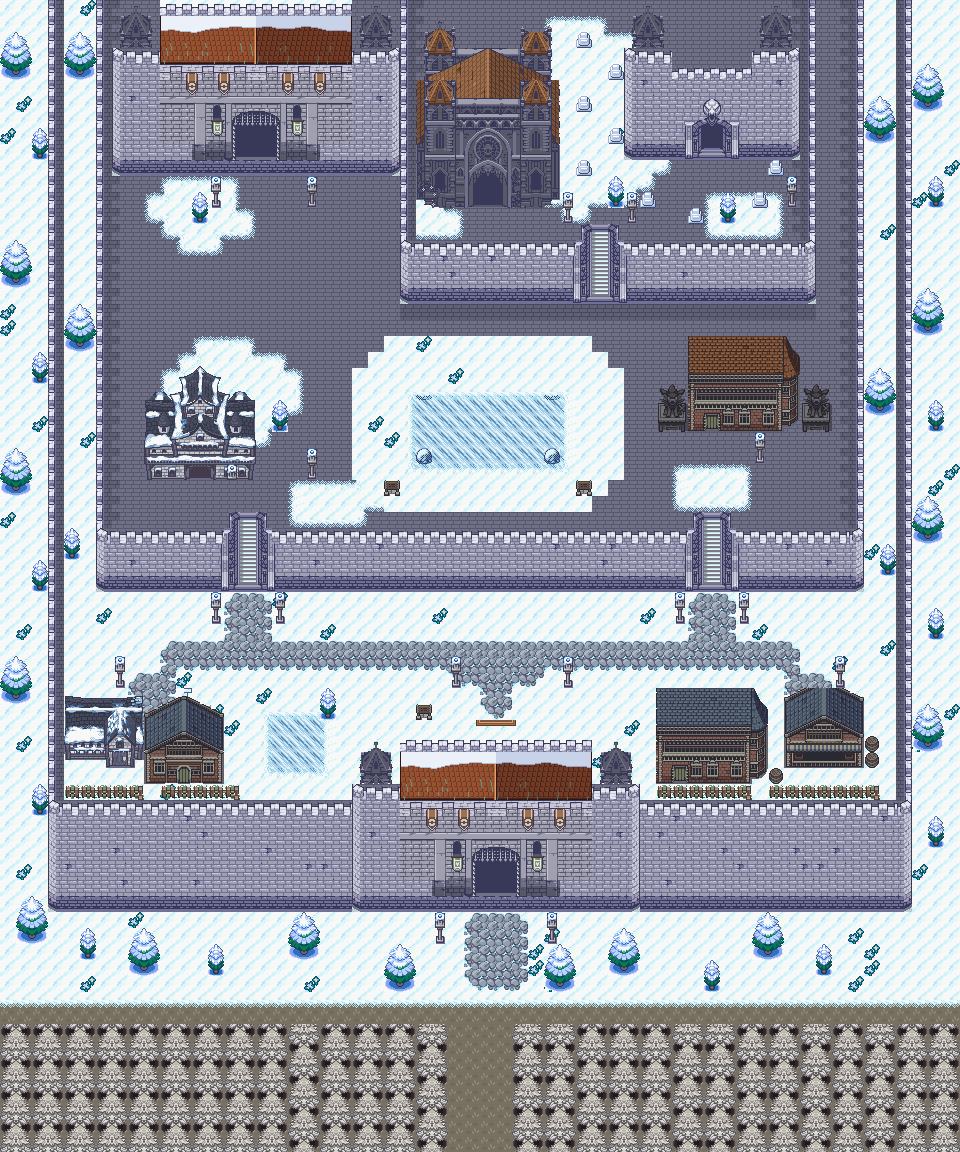
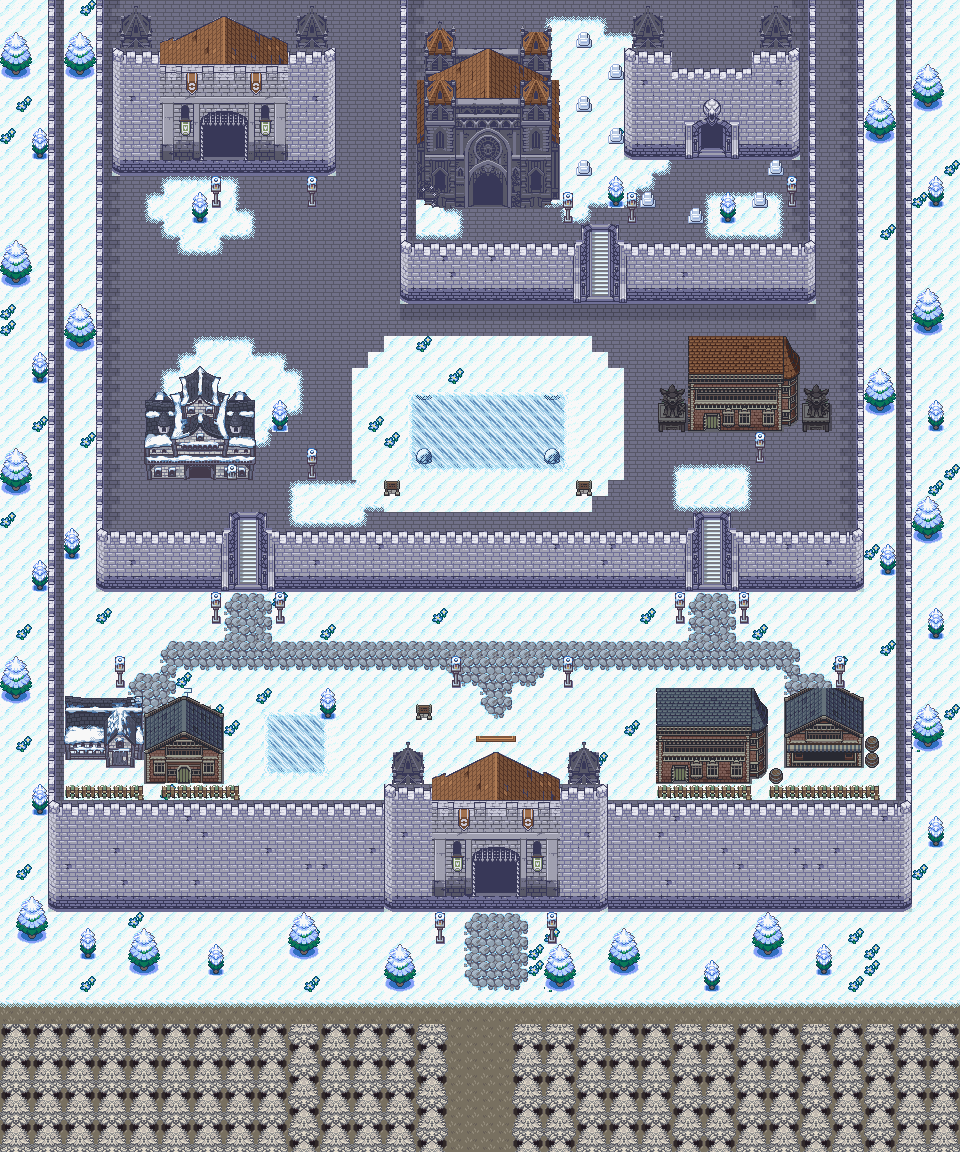
Mirroh gatehouses: Crown's cathedral roof between the towers, in copper
The drawn copper roof did not look like part of the gate (user). Now the real roof of Crown's cathedral (as it runs back between its spired towers) cut out, widened at mid-slope, in copper, over Crown's gate core; 14 wide. No half banners at the core's ends.

Claude-Session: https://claude.ai/code/session_01FHXnfqnedTHLf5QFbB3MCU

Changed region(s): [[0.3438, 0.625, 0.6875, 0.7812], [0.1562, 0.0, 0.4375, 0.1562]]

diff --git a/tools/art/mirroh/mirroh_v3.py b/tools/art/mirroh/mirroh_v3.py
@@ -61,6 +61,27 @@ def to_mirroh(img):
     out[purple] = copper_tone(img)[purple]
     return out
 
+def cathedral_roof(w, h):
+    """The roof of Crown's cathedral as it runs back between its towers (real Crown art: its metal sheets, its
+    ridge, the stone band at its back end), cut out between the towers and widened to w pixels at mid-slope, in
+    copper. h pixels from its back end down."""
+    a = ATL['c32']; cc = a['cells']
+    src = np.vstack([np.hstack([a['full'][int(cc[y, x])] for x in range(26, 35)]) for y in range(3, 9)])
+    reg = src[:h, 9:135]                              # between the towers; its ridge at x 63
+    L, R = reg[:, :63], reg[:, 63:]
+    need = w // 2
+    while L.shape[1] < need: L = np.concatenate([L[:, :20], L[:, 12:20], L[:, 20:]], axis=1)   # one 8 px strip
+    while R.shape[1] < w - need: R = np.concatenate([R[:, :40], R[:, 40:48], R[:, 40:]], axis=1)
+    img = np.concatenate([L[:, -need:], R[:, :w - need]], axis=1)
+    # only the roof itself (its sheets and their dark outline): not the back towers' feet beside its top
+    from scipy.ndimage import binary_dilation
+    f = img.astype(int); green = (f[..., 1] > f[..., 0] + 28) & (f[..., 1] > f[..., 2] + 12)
+    from scipy.ndimage import label
+    lab, n = label(green)                             # (the roof is one sheet: no stray bits of the towers' roofs)
+    if n > 1: green = lab == (np.argmax(np.bincount(lab.ravel())[1:]) + 1)
+    alpha = binary_dilation(green, np.ones((3, 3), bool))
+    return copper_roofs(img), alpha
+
 def copper_roof(w, h, seed='roof'):
     """A pitched copper roof seen from above, its ridge running back from the middle (the way the roof of Crown's
     cathedral runs back between its towers): standing seams leaning down each slope, staggered joints, the lit west
@@ -200,7 +221,7 @@ def mat(M, x, y, n, tone):
     ne = np.load('/home/claude/scratch/mirroh/ref/mm_ne_gate.npz')['full']
     ids = [0x1cb] + [0x1cc] * (n - 2) + [0x1cd]
     for k, m in enumerate(ids):
-        t = ne[m]; under = M.g[y][x + k].copy()
+        t = ne[m]; under = ef(0xed) if M.gtag[y, x + k] == 'snow' else M.g[y][x + k].copy()
         f = t.astype(int); a = f.sum(-1) > 0
         img = tone(t); under[a] = img[a]
         M.ground(x + k, y, under, 'gate-in')
@@ -210,12 +231,13 @@ def gatehouse(M, x0, ycren, style='roof', far_mat=False, tone=None):
     restoned in Elderflower's stone, with Elderflower's foot. Its door is the portcullis.
     style 'roof' (14 wide): round towers either side, a hip roof behind the crenels (Crown's townhouse's) in
       slate, restoned to the stone's own darks, no timber; the portcullis at columns x0+5..x0+8.
+    style 'cathedral' (14 wide, the chosen one, user 2026-11-21): see below.
     style 'towers' (18 wide): no roof; three-wide towers a row taller than the crenellated walk, capped with the
       Necropolis gate's spires (the same family); the portcullis at columns x0+7..x0+10.
     far_mat: the hallway's far door on the city side, a mat on the ground behind it (Ghost Grey's Saffron gates)."""
     c = ATL['c33']['cells']
     tw = 1 if style == 'roof' else 3
-    for dy in range(7):
+    for dy in range(7 if style != 'cathedral' else 0):
         for dx in range(12):
             m = int(c[36 + dy, 20 + dx])
             t = ef(0x21e) if dy == 6 else ef(0x20e) if m == 0x66 else to_mirroh(cr(m))   # (its moat-dark course: wall)
@@ -235,7 +257,7 @@ def gatehouse(M, x0, ycren, style='roof', far_mat=False, tone=None):
                 img = under.copy(); img[a] = to_ef_all(slate_roof(t))[a]
                 M.ground(x0 + 1 + dx, ycren - 3 + dy, img, 'gate')
         mx, my = x0 + 5, ycren - 4
-    else:
+    elif style == 'towers':
         body = [[0x2a3, 0x272, 0x272]] + [[0x222, 0x20e, 0x20e]] * 2 + [[0x222, 0x22b, 0x20e]] + \
                [[0x222, 0x20e, 0x20e]] * 2 + [[0x22a, 0x20e, 0x20e], [0x307, 0x21e, 0x21e]]
         for side, xs in ((0, x0), (1, xr)):
@@ -244,15 +266,33 @@ def gatehouse(M, x0, ycren, style='roof', far_mat=False, tone=None):
                     if side: M.ground(xs + 2 - dx, ycren - 1 + dy, fx(ef(m)), 'gate')
                     else: M.ground(xs + dx, ycren - 1 + dy, ef(m), 'gate')
             _spires(M, xs, ycren - 4, side)
-        # between the towers: the back wall's crenels (snow on them), then a copper roof running down to the front
-        # walk (Crown's cathedral: a pitched roof between its spired towers)
-        for dx in range(12):
-            M.ground(x0 + 3 + dx, ycren - 4, ef(0x206), 'gate')
-        roof = copper_roof(12 * 16, 3 * 16)
-        for dy in range(3):
-            for dx in range(12):
-                M.ground(x0 + 3 + dx, ycren - 3 + dy, roof[dy * 16:dy * 16 + 16, dx * 16:dx * 16 + 16], 'gate')
         mx, my = x0 + 7, ycren - 5
+    else:   # 'cathedral'
+        # 14 wide: Crown's gate core (its columns 22-29: pillar, lantern, the portcullis, lantern, pillar; its banners
+        # over the lanterns) between three-wide spired towers, and over the core, running back between the towers,
+        # the real roof of Crown's cathedral (its roof between its towers, cut at its ridge's back end), in copper.
+        for dy in range(7):
+            for dx in range(8):
+                m = int(c[36 + dy, 22 + dx])
+                if dx in (0, 7) and dy in (0, 1): m = (0x39, 0x45)[dy]       # (no half banners at its ends)
+                t = ef(0x21e) if dy == 6 else ef(0x20e) if m == 0x66 else to_mirroh(cr(m))
+                M.ground(x0 + 3 + dx, ycren + dy, t, 'gate')
+        xr = x0 + 11
+        body = [[0x2a3, 0x272, 0x272]] + [[0x222, 0x20e, 0x20e]] * 2 + [[0x222, 0x22b, 0x20e]] + \
+               [[0x222, 0x20e, 0x20e]] * 2 + [[0x22a, 0x20e, 0x20e], [0x307, 0x21e, 0x21e]]
+        roof, ra = cathedral_roof(8 * 16, 3 * 16)
+        for dy in range(3):
+            for dx in range(8):
+                sl = (slice(dy * 16, dy * 16 + 16), slice(dx * 16, dx * 16 + 16))
+                t = M.g[ycren - 3 + dy][x0 + 3 + dx].copy(); t[ra[sl]] = roof[sl][ra[sl]]
+                M.ground(x0 + 3 + dx, ycren - 3 + dy, t, 'gate')
+        for side, xs in ((0, x0), (1, xr)):
+            for dy, r in enumerate(body):
+                for dx, m in enumerate(r):
+                    if side: M.ground(xs + 2 - dx, ycren - 1 + dy, fx(ef(m)), 'gate')
+                    else: M.ground(xs + dx, ycren - 1 + dy, ef(m), 'gate')
+            _spires(M, xs, ycren - 4, side)
+        mx, my = x0 + 5, ycren - 4
     if far_mat:
         mat(M, mx, my, 4, tone or crimson_tone)
 
@@ -392,8 +432,8 @@ def compose():
     walls(M)
     stair(M, 15, 33); stair(M, 44, 33)                               # lower town -> square
     stair(M, 37, 15)                                                 # square -> sacred terrace
-    gatehouse(M, 22, 50, style='towers', far_mat=True, tone=lambda i: copper_tone(i))   # south, from Hollow Hill
-    gatehouse(M, 7, 4, style='towers')                               # north-west, to the mountain
+    gatehouse(M, 24, 50, style='cathedral', far_mat=True, tone=lambda i: copper_tone(i))   # south, from Hollow Hill
+    gatehouse(M, 7, 4, style='cathedral')                            # north-west, to the mountain
     necro_gate(M, 39, 0)                                             # north-east, to the Necropolis
 
     # --- L3: the chapel, its graveyard loose among small pines on the snow, the way to the Necropolis gate

diff --git a/bible/20_chapter1_build.md b/bible/20_chapter1_build.md
@@ -181,7 +181,7 @@ Chapter 1 is the template: once its foundations (mechanics, maps, buildings, NPC
 - **The ice path and the church after the blast (user design 2026-11-19), built (stage 1 + the stage-3 puzzle, user: the two combined for this piece).** **The church after Eden's blast** is a second layout of the same hall map (`LAYOUT_PELLUCA_TEMPLAR_HALL_RUINED`), swapped in by the hall's on-transition script once **`FLAG_DR_CHURCH_BLASTED`** is set (the blast scene, stage 4): the split through the gold medallion with frost round it, the old fault's cracks in wall and carpet, the cracked stained glass (three in the great window, one across the girl's face; two in each lancet) and the cell doorway caved in under MonoMyth's Mt. Thunder rubble (`blast_mock.py`, approved); no long crack from the rubble to the split (tried, dropped, user: unnatural and not needed). Everything else plays as the intact hall: its collision, its exit, and its side tables' tops over the player, read from the intact layout. The four split cells drop the player (Mt. Pyre's fall-through-the-hole) onto the ice path's landing; the cell door is dead and the fallen stone in front of it solid. **The ice path** (`PellucaIcePath`, 16x24, `icepath_mock.py`, approved): the landing, the 12x9 thin-ice field (86 ice cells, 22 ice boulders, a unique route from the landing to the gate), the ice wall and its gate, and the shrine: the half-thawed Arceus statue between the fossilised log benches, fire rings and blue flowers, and the three stone tusk arches like a ribcage before it. **The puzzle** runs on vanilla's Sootopolis-gym step callback (`STEP_CB_SOOTOPOLIS_ICE`, `VAR_ICE_STEP_COUNT`), which `src/field_tasks.c` now points at this map's own cracked/broken metatiles on this layout (`METATILE_PellucaIcePath_*`, written by the build into `metatile_labels.h`; the Sootopolis row-var bookkeeping kept to the gym). All 86 cracked (count 87): the gate's ice gives way (`SE_ICE_STAIRS`), the field refreezes solid (special `DrIcePathFreeze`: safe ice, no behaviour) and **`FLAG_DR_ICE_PATH_SOLVED`** is set; a second step on a cracked cell: the ice breaks, the player drops through, black screen, back on the landing with a fresh field. Every full load of the map rebuilds a fresh field and count when unsolved (special `DrIcePathReset`; a continued save would otherwise restore cracked cells in view), and the solved state (gate open, refrozen field) when solved. **Ways out:** the ladder in the shrine's corner, and (added in the build, so the player is never stuck before solving) **the Templars' rope** hanging beside the landing; both bring the player up just south of the split (hall warp 2). The ribs stand free: only each leg's foot is solid, the rest of each rib is drawn over the player, so he walks under and between them. Map type underground. Flags: `FLAG_DR_CHURCH_BLASTED` = 0x901, `FLAG_DR_ICE_PATH_SOLVED` = 0x902. Built by `tools/art/icepath/build_icepath.py` and `tools/art/templar/build_ruined.py` (with `imgtiles.py`; `tools/art/academy/tilefit.py` merges the statue's rarest near-shades so each 8x8 tile fits one palette, no visible change); `CHURCH_TEST_BLASTED=1` builds a test ROM that sets the flag on entering the hall. **Verified in the emulator** (test build): city -> ruined hall -> the cell door blocked -> into the split -> the landing; a second step on a cracked cell -> reset to the landing; the rope up and back down; the solution walked -> gate open, field refrozen -> the shrine -> the ladder up -> back down the split: still solved, the field crossed back and forth without falling. Normal build: the intact hall unchanged (city -> hall -> cell -> hall -> city; the split cells inert). *Stage 3-4, still to do:* the blast scene that sets the flag, the Templar's remark on the cold, the Sparkling Opal and the discovery, the Archbishop's scene, the leave-the-Valley block, dialogue for the fall (the field's black-out is silent for now).
 - **The shrine's awakening and the Sparkling Opal (user design 2026-11-20), built.** With the field solved, **pressing A on the Arceus statue** awakens the holy power of the site: dramatic music starts at the touch (**Rayquaza Appears**, `MUS_RAYQUAZA_APPEARS`; user: something awe-inspiring), a rumble, **the ice melts off the statue** (five frames, a little meltwater left at its foot), **the seal breaks in a holy flash** (fade to white and back) with **Arceus's cry echoing** (the cry's chorus mode under a heavy mixer reverb: specials `DrPlayEchoCry` / `DrEndEchoCry`), **the two fire rings beside the logs light** one after the other in **holy sapphire-and-white flame** (user's pick over warm firelight; animated, four frames on dedicated tiles: `InitTilesetAnim_PellucaIcePath`), and the music ends. Then Osrid (portrait, his private nameplate): "Something fell down out of the ice... Could this be...!!", and **"Osrid found the Sparkling Opal!"** with the key-item fanfare and its description popup. The statue stays thawed and the fires lit (`FLAG_DR_STATUE_AWAKENED` = 0x909, restored on every load). **Sparkling Opal** (`ITEM_SPARKLING_OPAL`, key item): its bag icon drawn in `awaken_mock.py` (a milky opal with a rainbow patchwork of play of colour, user); bag text (three lines fit): "Fell from the ice of / an Arceus statue. It / shimmers as if alive." (the user's description, "A gleaming opal that fell from the ice around an ancient Arceus statue. Its colours shift as if alive.", is too long for the bag window; it can be the text when the item is first shown or examined). **What happens to it (user 2026-11-20, canon):** when the player goes back up and shows it to **Archbishop Ambrose**, he gives them the **Warding Ring** with massive enthusiasm (a key item that, worn, keeps wild Pokémon away: a Repel switched on and off at will): Sparkling Opals appear only where Arceus has set foot in the material realm, the Templars have sought one for centuries, and this is the first physical proof of Arceus found in centuries as far as he knows. The player also gets the bravery reward (Never-Melt Ice / Metal Coat / Soft Sand). Stage 4: the scene; the Ring's mechanic to be built with it. **Ice path music (user):** the cave plays **MonoMyth's Old Headquarters theme** (Old Town's Old HQ, where the gang leader with the Bug Pokémon is fought): MonoMyth song 677 ported note for note by `tools/monomyth/port_song.py` (tracks, the voices it uses, its two samples; credit MonoMyth) as `MUS_DR_OLD_HQ` (song 631). **Church crack** (user): the long fresh crack from the cell rubble to the split is gone. Built by `build_icepath.py` with `awaken_mock.py` (melt frames, flames, icon); the statue's cells across all the melt frames share 26 colours (`tilefit.reduce_joint`) so the room still fits 13 palettes. **Verified in the emulator** (test build): the cave plays the Old HQ theme; A on the statue plays the whole sequence (music switches to Rayquaza Appears and back, the melt, the flash, both fires, the line, the item into Key Items); leaving and coming back: statue thawed, fires lit and flickering (four distinct frames).
 - **Route 11 and Hollow Hill: layouts approved (user 2026-11-20).** **Route 11** (45x30, west from Pelluca's west road): Pelluca's pines and cobble road carry on at the east end (the seam to Pelluca uses Pelluca's own Cormoria tiles), farmland in the middle (a thatched farmhouse with a fenced yard, cabbage rows, a sown field, hay; fenced flower rows and tall grass south of the road), tan cliffs stepping down along the north, a cliff-flanked little cove on the south coast, and at the west end the road becomes a dirt track into cooler dark woods running on into Hollow Hill (the Eiscue scene on that track). Art: Crown's seaside farm village (3.1) and dark woods (3.25), Odyssey's farm (0.232); Pisces' Brumist Cliffs / Zotpyre Village (snowy in the ROM) and Odyssey's terraced hill as layout ideas. **Hollow Hill** (about 50x50; **its theme (approved by the user 2026-11-20, "perfect"):** Ghost Grey's Route 1 theme re-arranged as `MUS_DR_HOLLOW_HILL` by `tools/music/arrange_hollow_hill.py`: slowed from 124 to 64 bpm, on the soft pedal piano, no percussion, with a ghostly far-off voice echoing the tune (a sine tone first, heard as beeps: replaced) (wind was tried and taken out: it came across as static) in the bars where the song falls quiet; credit Ghost Grey): woods rising in three rings, each a cliff step up, to a central rock knoll; the path in from Route 11 climbs the rings by stairs to **the sealed tunnel door** at the knoll's foot; the north exit to Mirroh leaves from the outer ring (Glaive there); the Eiscue and the 1v2 on the outer ring; **very foggy, with a generally spooky, unsettling feeling** (user 2026-11-20). **The summit is late-game** (unlocked only with Valkeerin/Keerin in the party; the trip to the distant future and the Red fight happen there; 19_location_atlas.md). **Hollow Hill will be revisited and added to over the whole game** (many secrets, met in pieces): its layout and its tileset keep room for more (hidden burrow mouths placed now as scenery that can later open, the summit area behind the sealed door, spare palette and tile room in its tileset). **Revision (user 2026-11-20, after the first mock):** Route 11 is **about twice as long (about 90x30)**; the **Ivy River's thin western branch** (as on the illustrated region map, coming down from the north past the Necropolis just west of Pelluca) **crosses Route 11 near its Pelluca end and runs down to the beach and the sea; the road crosses it on a bridge**; the **grass shifts gradually** from Pelluca's light mint to the darker temperate greens of Hollow Hill's woods (shades reaching into each other in patches, as MonoMyth's and Crown's route boundaries do; tree kinds mixing before they change). Design rule: no tree or object ever cut, stacked into another or bleeding into buildings, cliffs or water (docs/chapter1_workflow.md). **Mock v2 (2026-11-20):** the river drops through a chasm in three falls (the middle one under the bridge), over the coastal cliff into a rock pool, and a stream bends west over the sand to the sea; the beach is a cove between cliff walls, split by the stream. **Steps down to the west beach (user 2026-11-20)** are cut into the coastal cliff just west of the bridge (stone stairs, two wide: Pelluca's own stair tiles, as in its sea wall): the beach holds **at least one trainer**, and more may go there later. The east beach (between the stream and Pelluca's pines) has no way down yet: **revisit later (user 2026-11-20).** **Built (2026-11-20):** `MAP_ROUTE11` (layout 90x40: five rows of woods, the chasm and the sea added above and below the approved picture, out of the player's reach, so the camera never shows past the edge), connected to Pelluca's west road (Route 11's road rows 19-21 = Pelluca's 28-30). Its own secondary tileset (`gTileset_Route11`, 7 palettes: grass, broadleaf woods, farm, cottage and hay, bridge, cliffs, river and pines on sage) under Pelluca's primary; Pelluca's own metatiles wherever a cell is one. Crowns of trees are walked behind; tall grass is tall grass (no encounter table yet: stage 5); the river in the chasm is solid, the stream and the sea need Surf. **Story gate (provisional):** stepping onto Pelluca's west edge is stopped with Osrid's line ("Cadmus told me to meet him at the church..." after the blast, a general line before it) until the shrine is awakened; stage 4 sets the real condition. **Music (user 2026-11-20):** MonoMyth's Route 15 theme (`MUS_DR_MM_ROUTE15`): a classic Pokémon route theme, reworked, a bright contrast before spooky Hollow Hill. Credit: MonoMyth (its music). **Pelluca Valley's main theme (user 2026-11-20):** Pokémon Crown's route theme (its song 292, `MUS_DR_CROWN_PELLUCA`), replacing Lilycove's, **in the piano version the user chose** (`MUS_DR_CROWN_PELLUCA_PIANO`: our pedal piano for its guitar, harp, clarinet and flute, standalone; the original as ported was removed, user: the remix is better). Credit: Pokémon Crown (its music). **Cold-open music (user 2026-11-20):** MonoMyth's "A Legend Unfolds" (`MUS_DR_LEGEND_UNFOLDS`; in MonoMyth it plays when Fabrizia's museum in North Edelweiss tells the legend of Athanto's Pokémon) plays from Tenebris's notes through Cadmus's letter until Osrid docks in Pelluca, replacing "Far Horizons". Credit: MonoMyth (its music). **Loops checked in the game (2026-11-20):** Pelluca's theme, Route 11's, the cold open's and Hollow Hill's each play through their loop point and come back in step with their loop start (every track loops at the same point). **Sound engine (2026-11-20):** 12 sampled voices instead of 5, as MonoMyth uses (the songs from MonoMyth and Crown play up to 10-12 notes at once; with 5 they cut each other off). **Hollow Hill mock v3 (user 2026-11-20: "quite good"):** `tools/art/hollowhill/hh_mock.py`, renders in `assets/hollowhill_reference/`. Art: Pokémon Odyssey's haunted forest (its maps 0.94/0.95/0.97: teal floor, dark pines, dead trees, stumps, logs, red mushrooms, dark tall grass, burrow hollows, grey stone terraces and stairs, the sealed blue door); credit Odyssey. Layout 66x64 (the hill about 40x37; the extra width is the east edge, where Route 11's olive ground and Crown woods darken and mix into the teal and the pines over about ten columns; Route 11's row = Hollow Hill's row - 24, its track on rows 43-45). Ring edges drawn by Odyssey's own terrace grammar, two bands per ring, three for the knoll. **The way through (user 2026-11-20):** the woods floor is closed into sections by trees running up to the cliffs (north-west corner, north, east, south), and ring 2 reaches out west and east to ring 1's edge, cutting ring 1 into a north and a south half, so **the player can never go round the hill: from Route 11 up ring 1, up ring 2 (the sealed door, or over), down the north side to the north woods and the exit to Mirroh.** Eight stairs, four per ring (south faces, and north edges with the steps drawn down-facing) link the sections: the clearing (Eiscue, the 1v2) is its own section with its own stairs; the north-east woods are a dead-end pocket (room for an item or a secret). The mock checks this each run: with ring 2's stairs closed the north is out of reach; with ring 1's closed the woods sections do not join. The void pits with red eyes were dropped (they read as ponds). **Later (user 2026-11-20):** Hollow Hill keeps being worked on through the game, e.g. **a cool ruined structure on the top**, since it truly is an ancient and arguably cursed place. **Colours (user 2026-11-20):** the woods and their floor an **off-white, creepy bone** (Odyssey's pines, floor and tall grass recoloured one for one), the cliffs a **sinister stone, dark and light mixed** (near-black violet shade, charcoal faces, bone-pale lit edges), so Hollow Hill stands out even in the fog; trunks, red mushrooms and the sealed door's cold blue kept. At the east edge Route 11's green woods pale toward bone over three columns of trees (`hh_mock.py` BONE, tint). **Built (2026-11-20):** `MAP_HOLLOW_HILL` (layout 66x64; `tools/art/hollowhill/build_hollowhill.py` from `hh_mock.py`, mock v8), connected to Route 11's west edge (Hollow Hill's row = Route 11's + 24; the track on rows 43-45). **The seam:** Hollow Hill's columns 58-65 are Route 11's own columns 1-8 (the same blocks; its woods' pattern carried up above Route 11's top), and its tileset (`gTileset_HollowHill`, under Pelluca's primary) keeps Route 11's 24 seam metatiles, their 69 tiles and its two palettes (grass, broadleaf woods: slots 6-7) at the same ids, numbers and slots, so each map draws the other's edge right. Its own: 208 metatiles, 437 tiles, 5 palettes (floor, pines and wood, stone and blood, Crown's woods paled, the door and mushrooms). **The tiles are nearly full** (4 of 512 spare): the webs and the blood are built as repeating pieces (a few drip and blot patterns, one garland per spacing of trees) to fit; later additions (the ruins on top, burrows that open) are best as their own maps behind the sealed door and the burrows, or by trimming the webs/the olive-to-bone shades. Cliffs solid, stairs walkable, tree crowns walked behind, webs drawn over the player, the dark tufts are tall grass (no encounter table yet: stage 5). Weather `WEATHER_FOG_HORIZONTAL`, **thinned for Hollow Hill** (src/field_weather_effect.c: 6/16 over 13/16 instead of 12/16 over 8/16, so the bone woods are not washed out; other foggy maps unchanged); music `MUS_DR_HOLLOW_HILL`; `MAPSEC_DR_HOLLOW_HILL`. The way north runs off the top edge (the Mirroh area is next; no connection yet). Walked in the emulator from Route 11 up both rings, to the door, down the north side to the way north, and to the clearing. **The Hollow Hill guardian (user 2026-11-20; a special quest later in the game):** the personification of the haunted energy that has gathered round Hollow Hill for many years, so strong it **reanimated the dead body of an Araquanid as its vessel**: a custom **undead Araquanid**, a blood bubble for its water bubble, a skull-like face, skeletal limbs and body. Still **Water/Bug**, ability **Water Bubble**; about **level 65**; exceptionally strong: starts the fight at **+1 Attack, Defense, Special Defense and Speed**. It holds the **Reaver's Fang**, which the player gets by defeating it. **Reaver's Fang (held item; user 2026-11-20):** (1) the holder heals **25% of the physical or special damage it deals**; (2) when an enemy's physical or special attack damages the holder, the holder **heals 25% of that damage and the same amount is dealt back to the attacker**; (3) recoil the holder inflicts on itself is lifestolen at 25% too (user, first description; no attacker to hit back). **One of the strongest held items in the game**, which is why it **cannot be had until after midgame** (the guardian's quest is post-midgame). The blood webs across Hollow Hill are signs of its power over the woods. **Not catchable** (user 2026-11-20): it is only cursed energy possessing and working the corpse of a dead Pokémon. **Art:** the user will help make the base art for the assistant to modify further, and may let the assistant try the design when the time comes. OPEN: a new form with its own stats or Araquanid with the boosts; the quest. **Unsettling throughout (user 2026-11-20):** the pines' bone shades go to a **sinister grey** in their depths; **blood-like stains** run down the cliffs from their tops and soak into the stone in blots (more round the sealed door); **Blood-red webbing in MonoMyth's Webbed Woods style, hung across the trees** (user 2026-11-20: a web on each tree looked strange; hang them across more of the trees, more naturally; webs on actual groups of trees, never in the open): sheets of web sag from tree to tree along the woods' edges (the north and south treelines, garlands from each crown to the next at about the same height, two or three threads deep, laced by MonoMyth's zig-zags, torn threads trailing), bulge out from tree to tree down the west woods' side and the trees closing the way east, link pines standing near each other or near a woods' edge (the pair on ring 1), MonoMyth's big sagging net across the narrow way north, small round webs only in the dead tree's branches and in the V between the trees closing the way south. Drawn a pixel at a time in the webbing's two colours (MonoMyth's, made old-blood red); the net is MonoMyth's (`web_net.png`, 0x886DD5C). Credit MonoMyth. **The blood webs mean something (user 2026-11-20):** they are signs of the **Hollow Hill guardian's** power over the woods (below).
-- **Mirroh (user 2026-11-20/21; zone plan v2, `tools/art/mirroh/layout_sketch.py`, `assets/mirroh_reference/`).** Where Crown's medieval architecture really starts. **A mix of a Crown village and MonoMyth's Fort Elderflower** (user): a **walled city climbing the slope** of the massif in three terraces (Elderflower's crenellated terrace walls that jog with the slope, stone stairs staggered so the way winds up), Crown's timber and thatch cottages with fenced gardens below. **Light snow in the lower town, deeper uphill. Gothic, gloomy and wintry:** roofs recoloured to dark slate, iron lanterns, Crown's dragon statues darkened to gargoyles, banners in House Langerin's colours, a graveyard. **Ghost Grey's Opal Village** (user: loves its reflecting ice; study its landscape and indoor/outdoor tiles): sheets of **reflecting ice** sunk in brick rims (one in the square, one in the lower town), **dark icy streets with sparkles**, snowbanks held by brick retaining walls; its houses and museum halls for the interiors (greyscale: to be coloured). Zones: outside the **south gate** Hollow Hill's bone woods carry on (the seam), thinning to snowy pines; **lower town** (cottages, gardens, ice sheet); **middle terrace**, the square (the **Tavern**, like Pelluca's, **recoloured to the dark slate look**, user; a market hall, stalls, the ice sheet); **upper terrace** (deep snow): a gothic chapel and its graveyard (the seed of DM's Mirroh Base Camp graveyard), **House Langerin's town house** (user: yes). **Two ways out north (user):** a **north-west path** further north out of town, and a **separate north-east path to the Necropolis** (its own map uphill). **Gatehouses (user 2026-11-21):** Mirroh is guarded: people may not come and go as they please. **Two walk-through gatehouse buildings with guards** (enter one side, pass the guards inside, leave by the other; interior maps): the **south gatehouse** between Hollow Hill and the city proper, and the **north-west gatehouse** on the route toward the mountain, the Templar HQ and beyond. The **north-east path to the Necropolis is open** (no gate; the Necropolis keeps its own entrance). **Plan approved by the user ("basically perfect").** **Gates, decided (user 2026-11-21):** the **south and north-west gatehouses are roofed gatehouse buildings** in the style of Ghost Grey's and Crown's walk-through gates (slate roof behind the crenels, a stone front with banners, a portcullis door between lanterns, round towers either side; Crown's castle gate restoned in Elderflower's stone). The south one's far door, on the city side, is **a short flight of steps up from the gatehouse** (the city is uphill; user: "yes"). Their **hallway maps** follow North Edelweiss's gate hallway (MonoMyth): a dark doorway at the top, a crimson runner, guard desks facing each other, benches and plants, the mat at the foot, in Mirroh's cold stone (`tools/art/mirroh/gate_hall.py`). **The north-east way to the Necropolis is a standalone skull gate** (user's idea: Elderflower's skull keep door, "rebuilt as a standalone gate with a new top"): the skull arch under a crenellated walk between two round towers capped with the gothic spires of Crown's cathedral; no guards; you walk through the dark arch onto the Necropolis map. **Revised (user 2026-11-21):** both gatehouses take **the towered style** (option B: three-wide round towers a row taller than the gate, capped with the Necropolis gate's spires; no steps, the south one's far door a mat on the city side behind it), and **between the towers a pitched copper roof** with snow on its upper slopes, running back from the front walk to the back crenels, the way the roof of Crown's cathedral runs between its spired towers (user: no roof at all looked strange). **Copper is Mirroh's main colour and House Langerin's crest's** (user): used as the contrast to the dark slate and the snow wherever it makes sense: the gatehouse roofs, the banners (Crown's purple ones in copper), the chapel's roof (Crown's verdigris roof in copper, a little green left in its seams), House Langerin's town house roof, the hallway runners and mats (copper rather than red: red is generic). **Mock v3 (2026-11-21, `tools/art/mirroh/mirroh_v3.py`):** the city as Elderflower-style terraces drawn from a level map (each terrace narrower than the one below, its own crenellated front wall with round-tower ends, parapets down its sides, its paving shaded under them), snow lying on the paving in drifts, the reflecting ice set in snowy yards (the snow drifting onto the ice, no rim), cobbled lanes in the lower town; every borrowed building cut out of its source cleanly (only the source's true ground removed).
+- **Mirroh (user 2026-11-20/21; zone plan v2, `tools/art/mirroh/layout_sketch.py`, `assets/mirroh_reference/`).** Where Crown's medieval architecture really starts. **A mix of a Crown village and MonoMyth's Fort Elderflower** (user): a **walled city climbing the slope** of the massif in three terraces (Elderflower's crenellated terrace walls that jog with the slope, stone stairs staggered so the way winds up), Crown's timber and thatch cottages with fenced gardens below. **Light snow in the lower town, deeper uphill. Gothic, gloomy and wintry:** roofs recoloured to dark slate, iron lanterns, Crown's dragon statues darkened to gargoyles, banners in House Langerin's colours, a graveyard. **Ghost Grey's Opal Village** (user: loves its reflecting ice; study its landscape and indoor/outdoor tiles): sheets of **reflecting ice** sunk in brick rims (one in the square, one in the lower town), **dark icy streets with sparkles**, snowbanks held by brick retaining walls; its houses and museum halls for the interiors (greyscale: to be coloured). Zones: outside the **south gate** Hollow Hill's bone woods carry on (the seam), thinning to snowy pines; **lower town** (cottages, gardens, ice sheet); **middle terrace**, the square (the **Tavern**, like Pelluca's, **recoloured to the dark slate look**, user; a market hall, stalls, the ice sheet); **upper terrace** (deep snow): a gothic chapel and its graveyard (the seed of DM's Mirroh Base Camp graveyard), **House Langerin's town house** (user: yes). **Two ways out north (user):** a **north-west path** further north out of town, and a **separate north-east path to the Necropolis** (its own map uphill). **Gatehouses (user 2026-11-21):** Mirroh is guarded: people may not come and go as they please. **Two walk-through gatehouse buildings with guards** (enter one side, pass the guards inside, leave by the other; interior maps): the **south gatehouse** between Hollow Hill and the city proper, and the **north-west gatehouse** on the route toward the mountain, the Templar HQ and beyond. The **north-east path to the Necropolis is open** (no gate; the Necropolis keeps its own entrance). **Plan approved by the user ("basically perfect").** **Gates, decided (user 2026-11-21):** the **south and north-west gatehouses are roofed gatehouse buildings** in the style of Ghost Grey's and Crown's walk-through gates (slate roof behind the crenels, a stone front with banners, a portcullis door between lanterns, round towers either side; Crown's castle gate restoned in Elderflower's stone). The south one's far door, on the city side, is **a short flight of steps up from the gatehouse** (the city is uphill; user: "yes"). Their **hallway maps** follow North Edelweiss's gate hallway (MonoMyth): a dark doorway at the top, a crimson runner, guard desks facing each other, benches and plants, the mat at the foot, in Mirroh's cold stone (`tools/art/mirroh/gate_hall.py`). **The north-east way to the Necropolis is a standalone skull gate** (user's idea: Elderflower's skull keep door, "rebuilt as a standalone gate with a new top"): the skull arch under a crenellated walk between two round towers capped with the gothic spires of Crown's cathedral; no guards; you walk through the dark arch onto the Necropolis map. **Revised (user 2026-11-21):** both gatehouses take **the towered style** (option B: three-wide round towers a row taller than the gate, capped with the Necropolis gate's spires; no steps, the south one's far door a mat on the city side behind it), and **between the towers the real roof of Crown's cathedral** (its metal-sheet roof as it runs back between the cathedral's spired towers, cut out and widened at mid-slope), **in copper**, over Crown's gate core (pillar, lantern, portcullis, lantern, pillar, two banners); 14 wide (user: no roof at all looked strange; a drawn roof did not look like a natural part of the gate). **Copper is Mirroh's main colour and House Langerin's crest's** (user): used as the contrast to the dark slate and the snow wherever it makes sense: the gatehouse roofs, the banners (Crown's purple ones in copper), the chapel's roof (Crown's verdigris roof in copper, a little green left in its seams), House Langerin's town house roof, the hallway runners and mats (copper rather than red: red is generic). **Mock v3 (2026-11-21, `tools/art/mirroh/mirroh_v3.py`):** the city as Elderflower-style terraces drawn from a level map (each terrace narrower than the one below, its own crenellated front wall with round-tower ends, parapets down its sides, its paving shaded under them), snow lying on the paving in drifts, the reflecting ice set in snowy yards (the snow drifting onto the ice, no rim), cobbled lanes in the lower town; every borrowed building cut out of its source cleanly (only the source's true ground removed).
 - **Chapter 1 asset references (user 2026-11-19), for later: nothing built yet.** **Permissions and credits (user 2026-11-19):** Pokémon Crown (Blah and the Crown team) and Pokémon Ghost Grey Version EX (JoeyZeed) are used with permission; credit them in the notes alongside MonoMyth, Pokémon Odyssey and the Pokémon Rejuvenation team. Sources earmarked while surveying Pokémon Crown (FireRed hack by Blah and the Crown team; `tools/crown/README.md`, renders in `assets/crown_reference/`), MonoMyth, Dreamstone Mysteries and Rejuvenation:
   - **Mirroh Necropolis entrance:** Crown's curved palisade gate (walled capital, map group 3 #3, cells x43-54 y5-13), recoloured sinister (slate stone, charred wood, tarnished bronze arch, spectral banners) with graveyard/gothic ornament, as the grand entrance down into the catacombs (user). Catacomb levels: Crown's underground stone halls (group 6 #8: tiered walls, cobwebs, pillars, plank bridges over a chasm, a sealed chamber) and its sewer (group 7 #11), recoloured. Graves: DM's Mirroh Base Camp Graveyard headstones (metatile 0x3A5 in LAYOUT_MIRROH_BASE_CAMP_GRAVEYARD) and MonoMyth Speedwell's wooden cross markers (metatiles 0x39, 0xA6); dead stumps from MonoMyth's Haunted Swamp; Crown's cobwebs; Rejuvenation's iron candle stands with ghost-coloured flames; Crown's dragon statues darkened into gargoyles. **Underground catacombs (user, primary reference):** Pokémon Ghost Grey Version EX's Lavender Town catacombs (by JoeyZeed; `tools/ghostgrey/README.md`, renders in `assets/ghostgrey_reference/`): six chambers with grave niches, demon-face reliefs and chasm crossings, ending in a pillared chamber with a sealed gate (the Distortion gate's room). They are greyscale and need a proper palette.
   - **Templar Headquarters ("Templar Citadel", Mt. Mirroh):** Crown's gothic cathedral on its moat island with timber chalets (group 3 #2), with an alpine/snow treatment and perhaps an outer wall.
